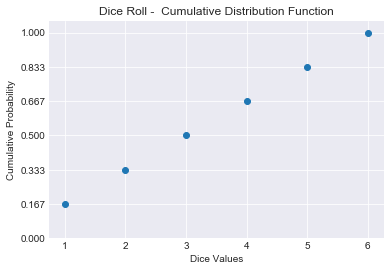
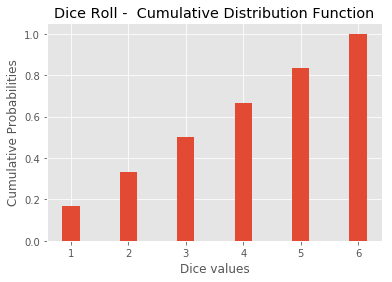
Auto-create curriculum branch from master + solution

diff --git a/README.md b/README.md
@@ -48,6 +48,32 @@ calculate_cdf(test_lst, test_X)
 
 
 
+
+```python
+# __SOLUTION__ 
+def calculate_cdf(lst, X):
+    count = 0
+    for value in lst:
+        if value <= X:
+            count += 1
+
+    cum_prob = count / len(lst) # normalizing cumulative probabilities (as with pmfs)
+    return round(cum_prob, 3)
+
+# test data
+test_lst = [1,2,3]
+test_X = 2
+
+calculate_cdf(test_lst, test_X)
+```
+
+
+
+
+    0.667
+
+
+
 Now, use this function to calculate a cdf for each value in a dice roll so you can plot it later on.
 
 Perform the following steps in the cell below:
@@ -72,6 +98,23 @@ dice_cum
 
 
 
+
+```python
+# __SOLUTION__ 
+dice_lst = [1,2,3,4,5,6]
+dice_cum = []
+for X in dice_lst:
+    dice_cum.append(calculate_cdf(dice_lst, X))
+dice_cum
+```
+
+
+
+
+    [0.167, 0.333, 0.5, 0.667, 0.833, 1.0]
+
+
+
 > CDFs are implemented with two sorted lists: one list which contains the potential outcome values of your discrete distribution, and another list which contains cumulative probabilities.
 
 Following this, we now have a list of possible values, and a second list containing cumulative probabilities for each value. Let's go ahead and plot these values in matplotlib using a bar plot. 
@@ -83,7 +126,24 @@ Following this, we now have a list of possible values, and a second list contain
 ```
 
 
-![png](index_files/index_7_0.png)
+![png](index_files/index_9_0.png)
+
+
+
+```python
+# __SOLUTION__ 
+import matplotlib.pyplot as plt
+%matplotlib inline
+plt.style.use('ggplot')
+
+plt.bar(dice_lst, dice_cum, width=0.3);
+plt.title ("Dice Roll -  Cumulative Distribution Function");
+plt.xlabel('Dice values')
+plt.ylabel('Cumulative Probabilities');
+```
+
+
+![png](index_files/index_10_0.png)
 
 
 ## Level Up (optional)
@@ -102,7 +162,25 @@ You would need to perform these steps
 ```
 
 
-![png](index_files/index_9_0.png)
+![png](index_files/index_12_0.png)
+
+
+
+```python
+# __SOLUTION__ 
+import numpy as np
+sample = [1,2,3,4,5,6]
+hist = np.histogram(sample, bins=6, range=(1,7), normed=True)
+plt.scatter(hist[1][:-1], np.cumsum(hist[0]))
+plt.title ("Dice Roll -  Cumulative Distribution Function");
+plt.xlabel("Dice Values")
+plt.ylabel("Cumulative Probability")
+plt.yticks(np.linspace(0,1,num=7))
+plt.show()
+```
+
+
+![png](index_files/index_13_0.png)
 
 
 ## Summary 
